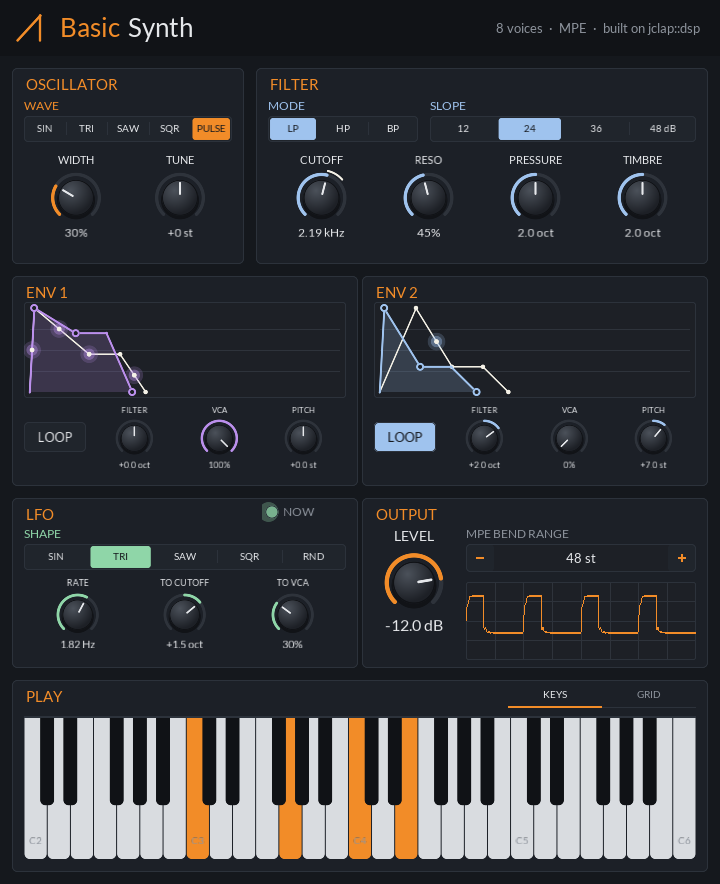
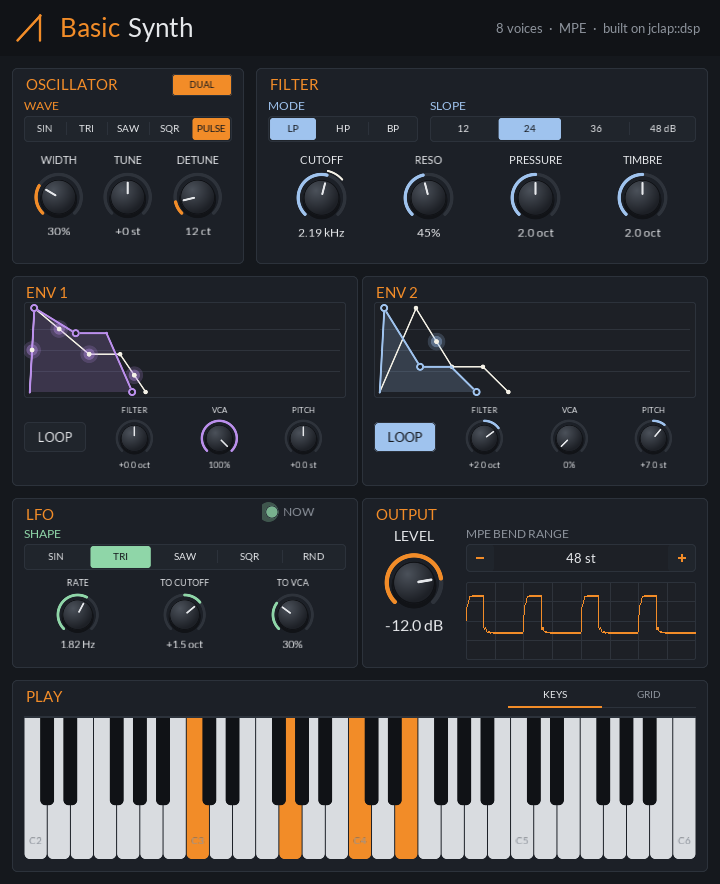
Basic Synth: DUAL oscillator with detune
A second oscillator of the same wave, the pair detuned either side of
the note by DETUNE (0-100 cents, modulatable per voice), summed at
1/sqrt(2).

Claude-Session: https://claude.ai/code/session_012S2AHA8dQwVwrEzNnAoqai

diff --git a/plugins/basic-synth/src/voice.h b/plugins/basic-synth/src/voice.h
@@ -1,6 +1,6 @@
 #pragma once
 
-// One synth voice, built from jclap::dsp: oscillator -> filter -> VCA. Two envelopes send to the
+// One synth voice, built from jclap::dsp: oscillator (or a detuned pair) -> filter -> VCA. Two envelopes send to the
 // filter, the VCA and the pitch by their own amounts. A looping envelope is not the voice's own: the
 // plugin runs one shared cycle and passes its value in, so every voice moves together, and an LFO moves the cutoff
 // and the VCA. Per-note expression (MPE) moves it too: bend sets the pitch, and pressure and timbre
@@ -25,6 +25,9 @@ constexpr int kEnvCount = 2;
 struct VoiceSettings {
    jclap::dsp::Oscillator::Wave wave = jclap::dsp::Oscillator::Wave::Saw;
    double pulseWidth = 0.5;
+   // A second oscillator, the same wave, the pair detuned apart by this many cents.
+   bool dual = false;
+   double detuneCents = 12.0;
    jclap::dsp::Filter::Mode filterMode = jclap::dsp::Filter::Mode::LowPass;
    jclap::dsp::Filter::Slope slope = jclap::dsp::Filter::Slope::Db24;
    double cutoffHz = 2000.0, resonance = 0.3;
@@ -48,6 +51,7 @@ class SynthVoice {
 public:
    void setSampleRate(double sampleRate) {
       osc_.setSampleRate(sampleRate);
+      osc2_.setSampleRate(sampleRate);
       filter_.setSampleRate(sampleRate);
       for (jclap::dsp::Envelope &e : env_)
          e.setSampleRate(sampleRate);
@@ -65,8 +69,12 @@ public:
    void setSeed(uint32_t seed) { lfo_.setSeed(seed); }
 
    void configure(const VoiceSettings &s) {
-      osc_.setWave(s.wave);
-      osc_.setPulseWidth(s.pulseWidth);
+      for (jclap::dsp::Oscillator *o : {&osc_, &osc2_}) {
+         o->setWave(s.wave);
+         o->setPulseWidth(s.pulseWidth);
+      }
+      dual_ = s.dual;
+      detune_ = s.detuneCents / 100.0;
       filter_.setMode(s.filterMode);
       filter_.setSlope(s.slope);
       filter_.setResonance(s.resonance);
@@ -93,6 +101,8 @@ public:
       vca_.setGain(gain);
       if (!isActive()) {
          osc_.reset();
+         // Off phase from the first, so the pair doesn't start out cancelling or doubling.
+         osc2_.reset(0.37);
          filter_.reset();
          vca_.reset();
          lfo_.reset();
@@ -145,7 +155,18 @@ public:
          vcaShare += sends_[i].toVca;
       }
       const double lfo = lfoValue_ = lfo_.process();
-      osc_.setFrequency(jclap::dsp::noteToHz(pitch_.process() + toPitch));
+      const double pitch = pitch_.process() + toPitch;
+      double source;
+      if (dual_) {
+         // Detuned either side of the note, so the pair stays centred on it. Their sum is scaled
+         // by 1/sqrt(2): about the same loudness as one, as the two drift in and out of phase.
+         osc_.setFrequency(jclap::dsp::noteToHz(pitch - 0.5 * detune_));
+         osc2_.setFrequency(jclap::dsp::noteToHz(pitch + 0.5 * detune_));
+         source = (osc_.process() + osc2_.process()) * 0.7071067811865476;
+      } else {
+         osc_.setFrequency(jclap::dsp::noteToHz(pitch));
+         source = osc_.process();
+      }
       const double octaves = cutoff_.process() + toFilter + pressureAmount_ * pressure_.process() +
                              timbreAmount_ * 2.0 * (timbre_.process() - 0.5) + lfoToCutoff_ * lfo;
       filter_.setCutoff(std::exp2(std::clamp(octaves, 3.0, 15.0)));
@@ -154,7 +175,7 @@ public:
       const double open = gate * std::max(0.0, 1.0 - vcaShare);
       const double tremolo = 1.0 - lfoToVca_ * (0.5 - 0.5 * lfo);
       level_ = static_cast<float>(std::clamp(open + toVca, 0.0, 1.0) * tremolo);
-      return vca_.process(filter_.process(osc_.process()), level_);
+      return vca_.process(filter_.process(static_cast<float>(source)), level_);
    }
 
    // Sounding until released and silent: the gate has closed and every envelope of its own sent to
@@ -179,7 +200,9 @@ public:
    double lfoValue() const { return lfoValue_; }
 
 private:
-   jclap::dsp::Oscillator osc_;
+   jclap::dsp::Oscillator osc_, osc2_;
+   bool dual_ = false;
+   double detune_ = 0.0; // semitones
    jclap::dsp::Filter filter_;
    jclap::dsp::Envelope env_[kEnvCount];
    VoiceSettings::Env sends_[kEnvCount];

diff --git a/plugins/basic-synth/src/params.h b/plugins/basic-synth/src/params.h
@@ -17,6 +17,8 @@ enum ParamId : clap_id {
    kWave,
    kPulseWidth,
    kTune,
+   kDual,
+   kDetune,
    // Filter.
    kFilterMode,
    kSlope,
@@ -82,6 +84,8 @@ inline const jclap::core::ParamDef kParams[kParamCount] = {
    {kWave, "Wave", "Oscillator", 0.0, 4.0, 2.0, kChoice},
    {kPulseWidth, "Pulse Width", "Oscillator", 0.05, 0.95, 0.5, kMod},
    {kTune, "Tune", "Oscillator", -24.0, 24.0, 0.0, kStepped},
+   {kDual, "Dual", "Oscillator", 0.0, 1.0, 0.0, kChoice},
+   {kDetune, "Detune", "Oscillator", 0.0, 100.0, 12.0, kMod},
    {kFilterMode, "Filter Mode", "Filter", 0.0, 2.0, 0.0, kChoice},
    {kSlope, "Slope", "Filter", 0.0, 3.0, 1.0, kChoice},
    {kCutoff, "Cutoff", "Filter", 0.0, 1.0, 2.0 / 3.0, kMod},
@@ -136,6 +140,7 @@ inline const char *const *choiceNames(clap_id id, int &count) {
       return kLfoShapeNames;
    case kEnv1Loop:
    case kEnv2Loop:
+   case kDual:
       count = 2;
       return kLoopNames;
    default:
@@ -191,6 +196,9 @@ inline void formatParam(clap_id id, double value, char *out, size_t size) {
    case kEnv1ToPitch:
    case kEnv2ToPitch:
       std::snprintf(out, size, "%+.1f st", value);
+      break;
+   case kDetune:
+      std::snprintf(out, size, "%.0f ct", value);
       break;
    case kEnv1Attack:
    case kEnv1Decay:

diff --git a/plugins/basic-synth/tests/test_plugin.cpp b/plugins/basic-synth/tests/test_plugin.cpp
@@ -370,6 +370,28 @@ int main() {
       h.setParam(kEnv1Release, 50.0);
    }
 
+   // Dual: a second oscillator detuned either side, so the pitch stays centred and the sound changes.
+   {
+      h.note(CLAP_EVENT_NOTE_ON, 57, 1.0);
+      run(4800);
+      run(4800);
+      const std::vector<float> single = run.left;
+      h.note(CLAP_EVENT_NOTE_CHOKE, -1, 0.0, -1, -1);
+      run(64);
+      h.setParam(kDual, 1.0);
+      h.setParam(kDetune, 10.0);
+      h.note(CLAP_EVENT_NOTE_ON, 57, 1.0);
+      run(4800);
+      run(48000);
+      JCLAP_CHECK(near(run.frequency(), 220.0, 1.0));
+      JCLAP_CHECK(run.rms() > 0.03);
+      JCLAP_CHECK(std::vector<float>(run.left.begin(), run.left.begin() + 4800) != single);
+      h.note(CLAP_EVENT_NOTE_CHOKE, -1, 0.0, -1, -1);
+      run(64);
+      h.setParam(kDual, 0.0);
+      JCLAP_CHECK(h.paramText(kDetune, 12.0) == "12 ct");
+   }
+
    // The LFO: a slow square at full tremolo depth turns the note on and off, and the panel sees it.
    h.setParam(kEnv1ToVca, 1.0);
    h.setParam(kEnv1Sustain, 1.0);

diff --git a/plugins/basic-synth/src/editor.cpp b/plugins/basic-synth/src/editor.cpp
@@ -139,10 +139,15 @@ private:
 
    void buildOscillator() {
       add<ui::Section>({12, 68, 232, 196}, "OSCILLATOR");
+      auto &dual = add<ui::Button>({172, 74, 60, 22}, "DUAL");
+      dual.setAccent(kOrange);
+      bindings_.bind(dual, kDual);
+      tips_.add(dual, "Two oscillators, detuned apart by DETUNE.");
       segments(kWave, "WAVE", {"SIN", "TRI", "SAW", "SQR", "PULSE"}, kOrange, {24, 116, 208, 26});
-      const auto cells = ui::row({24, 152, 208, 104}, 2);
+      const auto cells = ui::row({24, 152, 208, 104}, 3);
       tips_.add(knob(kPulseWidth, "WIDTH", kOrange, cells[0]), "Pulse width, for the PULSE wave.");
       knob(kTune, "TUNE", kOrange, cells[1], true);
+      tips_.add(knob(kDetune, "DETUNE", kOrange, cells[2]), "How far apart the two oscillators are, with DUAL on.");
    }
 
    void buildFilter() {

diff --git a/plugins/basic-synth/src/plugin.cpp b/plugins/basic-synth/src/plugin.cpp
@@ -367,6 +367,8 @@ private:
       VoiceSettings vs;
       vs.wave = static_cast<jclap::dsp::Oscillator::Wave>(choice(kWave, slot));
       vs.pulseWidth = value(kPulseWidth, s);
+      vs.dual = value(kDual, s) >= 0.5;
+      vs.detuneCents = value(kDetune, s);
       vs.filterMode = static_cast<jclap::dsp::Filter::Mode>(choice(kFilterMode, slot));
       vs.slope = static_cast<jclap::dsp::Filter::Slope>(choice(kSlope, slot) + 1);
       vs.cutoffHz = cutoffHz(value(kCutoff, s));

diff --git a/plugins/basic-synth/tools/screenshot.cpp b/plugins/basic-synth/tools/screenshot.cpp
@@ -20,6 +20,8 @@ public:
          return 4.0;
       case kPulseWidth:
          return 0.3;
+      case kDual:
+         return 1.0;
       case kCutoff:
          return 0.55;
       case kResonance:

diff --git a/plugins/basic-synth/README.md b/plugins/basic-synth/README.md
@@ -24,7 +24,7 @@ oscillator ──> filter ──> VCA ──> out
    MPE pressure, timbre: to filter
 ```
 
-- **Oscillator**: sine, triangle, saw, square or pulse, with pulse width, band-limited.
+- **Oscillator**: sine, triangle, saw, square or pulse, with pulse width, band-limited. DUAL adds a second oscillator of the same wave, the pair detuned apart by DETUNE (0 to 100 cents) and centred on the note.
 - **Filter**: low, high or band pass at 12, 24, 36 or 48 dB/oct, with resonance.
 - **Env 1 and Env 2**: two ADSRs, each with a **loop** toggle and three amounts: to the filter (±5 octaves), to the VCA (0 to 100%) and to the pitch (±24
   semitones). They start as Env 1 on the VCA and Env 2 on the filter. Whatever share of the VCA the
